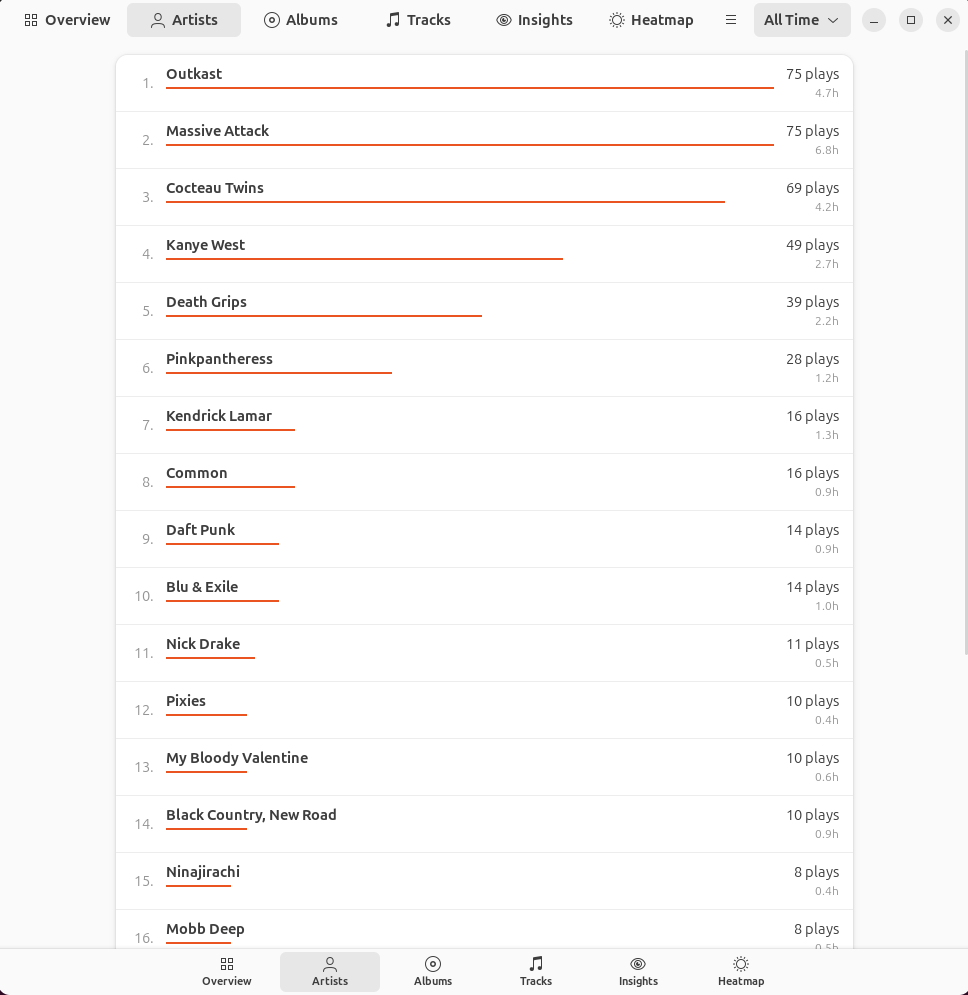
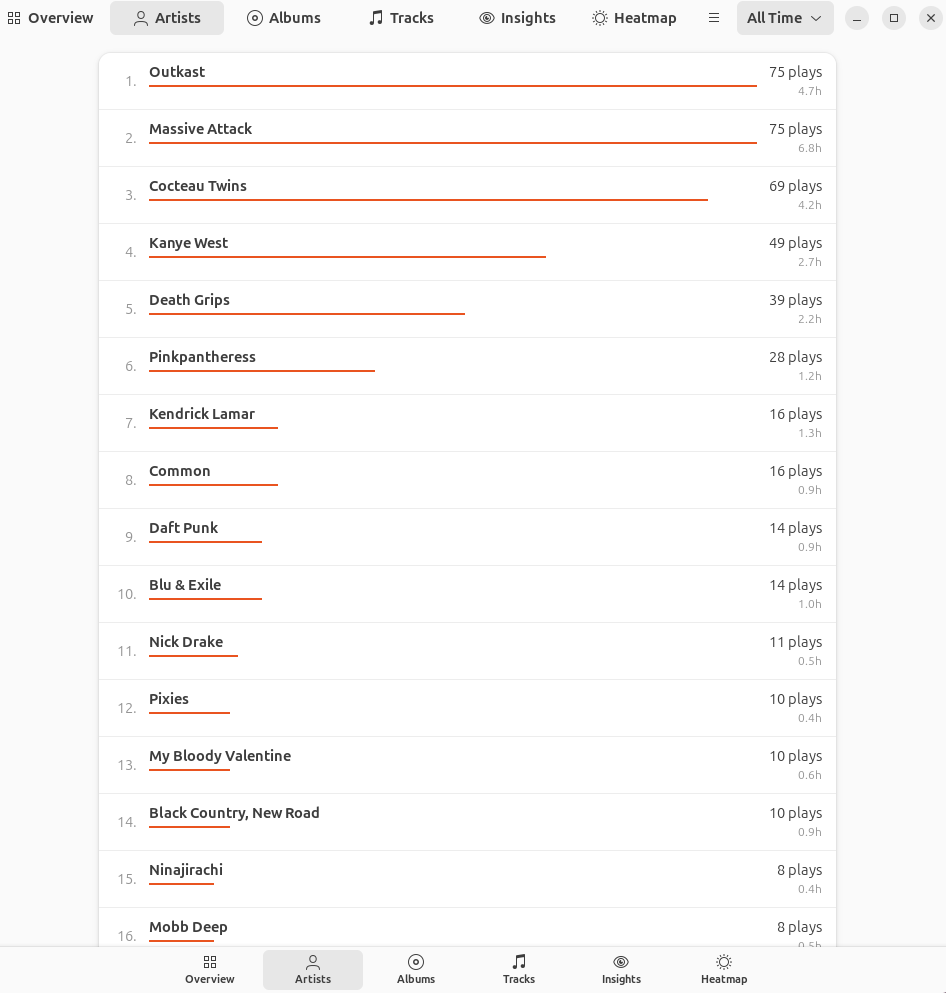
Simplify README and update screenshot

diff --git a/README.md b/README.md
@@ -2,28 +2,23 @@
 
 A small and simple music listening tracker for GNOME.
 
-![Niandra screenshot](data/screenshots/overview.png)
-
 Niandra tracks what you listen to from any MPRIS-compatible music player on your Linux desktop. It quietly runs in the background, storing your listening history locally, and lets you explore your music habits with a clean, native interface.
 
 ## What Niandra does
 
-Niandra monitors your music players via D-Bus and records each song you listen to. It captures rich metadata—artist, album, track, duration—and builds a personal listening history that stays on your machine.
+Niandra monitors your music players via D-Bus and records each song you listen to. It builds a personal listening history that stays on your machine.
 
-The GUI lets you explore:
+The GUI lets you explore information about your listening habits.
 
-- **Overview** — Total plays, listening time, library size
-- **Top Lists** — Your most-played artists, albums, and tracks
-- **Insights** — Listening streaks, night owl score, skip rate
-- **Heatmap** — When you listen throughout the day
-
-![Niandra artists view](data/screenshots/artists.png)
+<img src="data/screenshots/artists.png" alt="Niandra artists view" style="zoom:33%;" />
 
 ## What Niandra does not do
 
 Niandra is not a music player. It doesn't manage playlists, edit tags, or stream music. It simply observes what you're already listening to and helps you understand your habits.
 
 Niandra does not upload your data anywhere. Everything stays in a local SQLite database on your computer.
+
+We recommend pairing Niandra with [Amberol](https://apps.gnome.org/Amberol/) or other music players and playing `.flac`  or other lossless formats for the best experience :)
 
 ## Installation
 
@@ -71,16 +66,11 @@ sudo apt install libgtk-4-dev libadwaita-1-dev
 
 ## Why "Niandra"?
 
-The name comes from [*Niandra LaDes and Usually Just a T-Shirt*](https://en.wikipedia.org/wiki/Niandra_LaDes_and_Usually_Just_a_T-Shirt), John Frusciante's 1994 solo album. It was one of my early introductions to music that existed outside the mainstream—raw, personal, and unpolished. This project carries a bit of that spirit: a simple tool for people who care about their music.
+The name comes from [*Niandra LaDes and Usually Just a T-Shirt*](https://en.wikipedia.org/wiki/Niandra_LaDes_and_Usually_Just_a_T-Shirt), John Frusciante's 1994 solo album. It was one of my early introductions to music.
 
 ## Contributing
 
-Contributions are welcome! Whether it's bug reports, feature suggestions, or pull requests—all are appreciated.
-
-- **Issues**: [github.com/tombleher/niandra/issues](https://github.com/tombleher/niandra/issues)
-- **Code**: Fork the repo, make your changes, and open a PR
-
-Please be kind and respectful in all interactions.
+Contributions are welcome! Whether it's bug reports, feature suggestions, or pull requests: all are appreciated. Please be kind and respectful in all interactions.
 
 ## License
 
